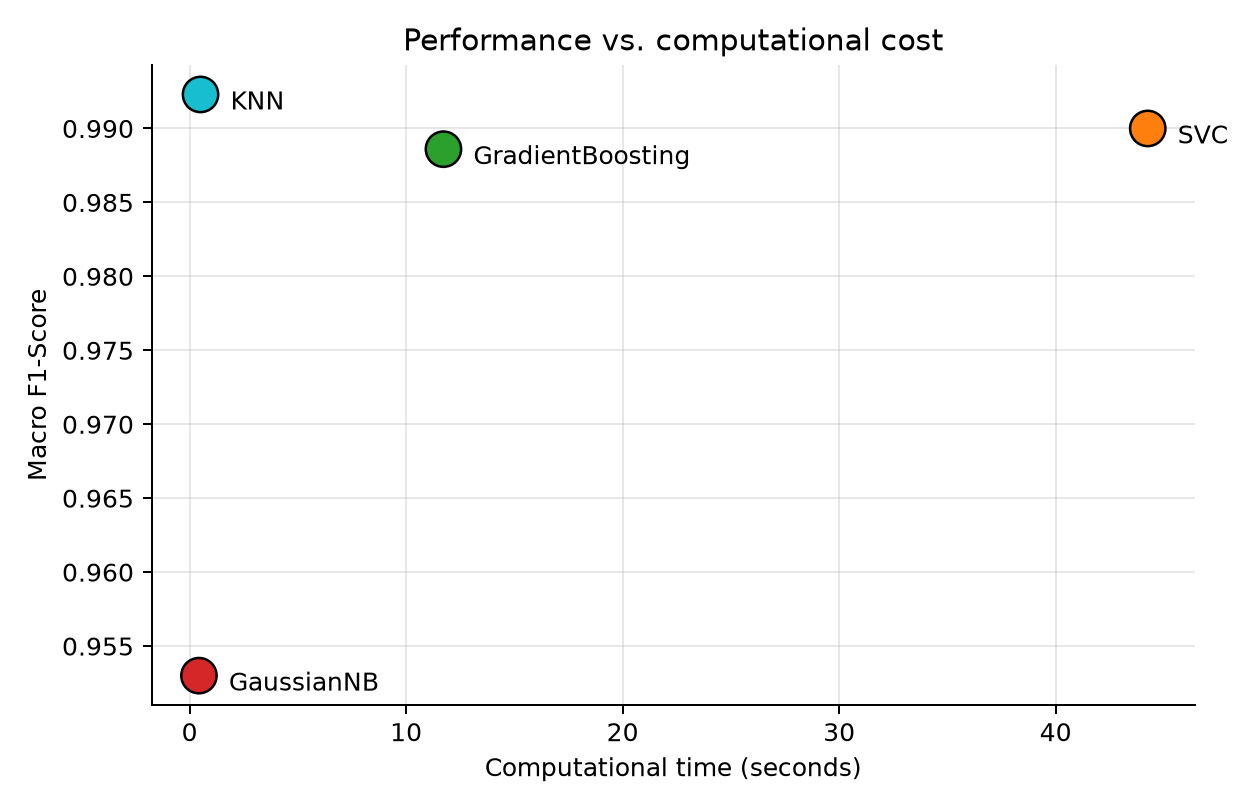
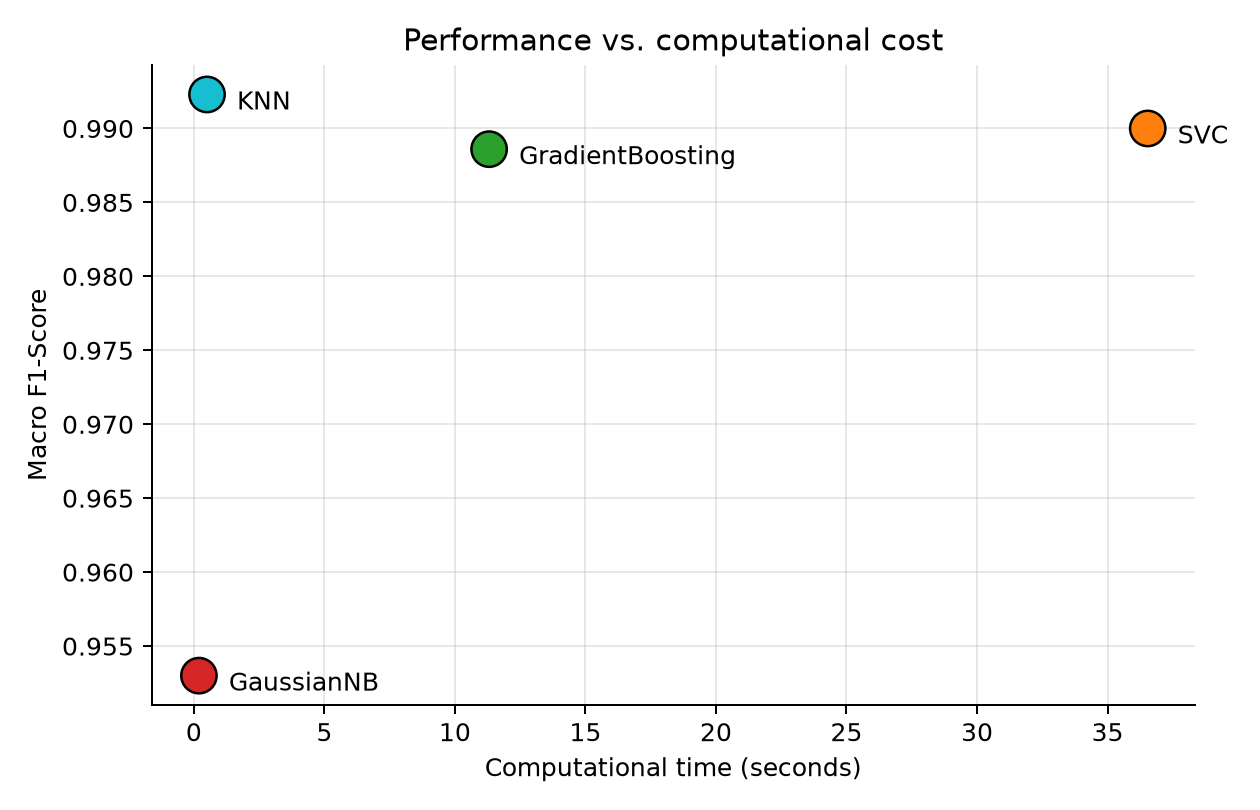
Light theme dashboard; show all 7 regenerated figures; no-cache on API/assets; quick-mode re-train verified

diff --git a/templates/index.html b/templates/index.html
@@ -10,7 +10,7 @@
 <body>
 
 <!-- Navbar -->
-<nav class="navbar navbar-dark sticky-top px-3">
+<nav class="navbar navbar-light bg-white sticky-top px-3">
   <span class="navbar-brand fw-bold">📊 Activity in English</span>
   <div class="d-flex align-items-center gap-2">
     <span id="status-pill" class="badge rounded-pill bg-secondary">Loading…</span>
@@ -26,10 +26,10 @@
     <p class="lead mb-2">The <strong>Occupancy Detection Dataset</strong>: predict whether a room is occupied from
       environmental sensor data using four models from different mathematical families.</p>
     <div class="d-flex flex-wrap gap-2 mt-2">
-      <span class="badge bg-light text-dark fs-6">🎯 17,895 instances</span>
-      <span class="badge bg-light text-dark fs-6">📡 5 sensor features</span>
-      <span class="badge bg-light text-dark fs-6">🧮 4 models · 3 families</span>
-      <span class="badge bg-light text-dark fs-6">🔁 5-fold stratified CV</span>
+      <span class="badge bg-white text-dark border fs-6">🎯 17,895 instances</span>
+      <span class="badge bg-white text-dark border fs-6">📡 5 sensor features</span>
+      <span class="badge bg-white text-dark border fs-6">🧮 4 models · 3 families</span>
+      <span class="badge bg-white text-dark border fs-6">🔁 5-fold stratified CV</span>
       <span id="badge-updated" class="badge bg-info text-dark fs-6">⏱ results: —</span>
     </div>
   </header>
@@ -72,7 +72,7 @@
       <div class="col-lg-6">
         <div class="card"><div class="card-body">
           <h5 class="card-title">Variables</h5>
-          <table class="table table-sm table-dark align-middle">
+          <table class="table table-sm align-middle">
             <thead><tr><th>Variable</th><th>Description</th><th>Role</th></tr></thead>
             <tbody>
               <tr><td>Temperature</td><td>Ambient temperature (°C)</td><td>Predictor</td></tr>
@@ -108,7 +108,7 @@
       <span class="badge text-bg-warning fs-6" id="winner-badge">🏆</span>
     </div>
     <div class="card"><div class="card-body table-responsive">
-      <table class="table table-dark table-hover align-middle mb-0" id="results-table">
+      <table class="table table-hover align-middle mb-0" id="results-table">
         <thead>
           <tr>
             <th>Model</th><th>F1-Score (macro)</th><th>Accuracy</th><th>Precision</th>
@@ -136,6 +136,34 @@
   <section class="mb-5">
     <h2 class="section-title">Confusion Matrices (out-of-fold predictions)</h2>
     <div class="row g-3" id="confusion-grid"></div>
+  </section>
+
+  <!-- REPORT FIGURES (PNG) -->
+  <section class="mb-5">
+    <h2 class="section-title">Report Figures</h2>
+    <p class="text-muted small">Static figures regenerated on every run (also refreshed after each re-training).</p>
+    <div class="row g-4">
+      <div class="col-md-6"><div class="card"><div class="card-body text-center">
+        <h6 class="chart-title">Macro F1-Score averages (5-fold CV)</h6>
+        <img id="img-f1bars" class="img-fluid rounded mb-1" src="" alt="Macro F1-Score by model">
+      </div></div></div>
+      <div class="col-md-6"><div class="card"><div class="card-body text-center">
+        <h6 class="chart-title">Computational time (GridSearchCV)</h6>
+        <img id="img-timebars" class="img-fluid rounded mb-1" src="" alt="Computational time">
+      </div></div></div>
+      <div class="col-md-6"><div class="card"><div class="card-body text-center">
+        <h6 class="chart-title">Performance vs. computational cost</h6>
+        <img id="img-f1time" class="img-fluid rounded mb-1" src="" alt="F1 vs time">
+      </div></div></div>
+      <div class="col-md-6"><div class="card"><div class="card-body text-center">
+        <h6 class="chart-title">SVM kernel analysis</h6>
+        <img id="img-kernels" class="img-fluid rounded mb-1" src="" alt="SVM kernels">
+      </div></div></div>
+      <div class="col-md-6"><div class="card"><div class="card-body text-center">
+        <h6 class="chart-title">KNN distance-metric evaluation</h6>
+        <img id="img-metrics" class="img-fluid rounded mb-1" src="" alt="KNN metrics">
+      </div></div></div>
+    </div>
   </section>
 
   <!-- DECISION BOUNDARIES -->
@@ -168,7 +196,7 @@
   <section class="mb-5">
     <h2 class="section-title">Reproducibility</h2>
     <div class="card"><div class="card-body">
-      <table class="table table-sm table-dark align-middle mb-0">
+      <table class="table table-sm align-middle mb-0">
         <thead><tr><th>File</th><th>Purpose</th><th>Command</th></tr></thead>
         <tbody>
           <tr><td><code>occupancy_classification.py</code></td><td>Console experiment</td><td><code>python occupancy_classification.py</code></td></tr>

diff --git a/static/app.css b/static/app.css
@@ -1,33 +1,34 @@
 :root {
-  --bg: #0b0f1a;
-  --card: #141a2a;
-  --card-2: #1a2236;
-  --border: #2a3550;
-  --accent: #38bdf8;
-  --text: #e6ecf5;
-  --muted: #93a1b8;
+  --bg: #f3f6fb;
+  --card: #ffffff;
+  --card-2: #f8fafc;
+  --border: #dbe3ee;
+  --accent: #2563eb;
+  --text: #1e293b;
+  --muted: #64748b;
 }
 
 body {
-  background: linear-gradient(180deg, #0b0f1a 0%, #0f1524 100%);
+  background: linear-gradient(180deg, #f6f9fd 0%, #eef2f8 100%);
   color: var(--text);
   font-family: "Segoe UI", system-ui, -apple-system, sans-serif;
   min-height: 100vh;
 }
 
 .navbar {
-  background: rgba(10, 14, 24, 0.92);
+  background: rgba(255, 255, 255, 0.92);
   backdrop-filter: blur(8px);
   border-bottom: 1px solid var(--border);
 }
+.navbar .navbar-brand { color: var(--text); }
 
 .hero {
-  background: radial-gradient(1200px 400px at 20% -10%, #1d3a5f 0%, transparent 60%),
-    linear-gradient(135deg, #16233f 0%, #10182b 100%);
+  background: radial-gradient(1200px 400px at 20% -10%, #dbeafe 0%, transparent 60%),
+    linear-gradient(135deg, #eef4ff 0%, #f8fafc 100%);
   border: 1px solid var(--border);
-  box-shadow: 0 12px 40px rgba(0, 0, 0, 0.45);
+  box-shadow: 0 12px 40px rgba(15, 23, 42, 0.08);
 }
-.hero .lead { color: #c6d3ea; }
+.hero .lead { color: #475569; }
 
 .section-title {
   color: var(--accent);
@@ -36,7 +37,7 @@ body {
   margin-bottom: 1rem;
 }
 
-.chart-title { color: #c9d6ec; margin-bottom: 0.6rem; }
+.chart-title { color: #334155; margin-bottom: 0.6rem; }
 
 .card, .phase-card {
   background: var(--card);
@@ -51,8 +52,8 @@ body {
 .plot-area { min-height: 320px; }
 
 .modal-card {
-  border: 2px solid var(--accent);
-  box-shadow: 0 0 0 3px rgba(56, 189, 248, 0.15), 0 12px 40px rgba(0,0,0,0.5);
+  border: 1px solid var(--border);
+  box-shadow: 0 4px 20px rgba(15, 23, 42, 0.08);
   position: relative;
 }
 .winner-ribbon {
@@ -70,11 +71,6 @@ body {
 
 .card-text small { color: var(--muted); }
 
-.table-dark {
-  --bs-table-bg: var(--card-2);
-  --bs-table-border-color: var(--border);
-}
-
 .badge-outline {
   background: transparent;
   border: 1px solid var(--vertical-border, var(--accent));
@@ -86,7 +82,7 @@ footer { border-top: 1px solid var(--border); }
 #status-pill.training { background-color: #f59e0b; color: #0b0f1a; animation: pulse 1.4s infinite; }
 #status-pill.done { background-color: #22c55e; color: #0b0f1a; }
 #status-pill.error { background-color: #ef4444; color: #fff; }
-#status-pill.idle { background-color: #64748b; }
+#status-pill.idle { background-color: #64748b; color: #fff; }
 
 @keyframes pulse {
   0%, 100% { opacity: 1; }
@@ -94,4 +90,4 @@ footer { border-top: 1px solid var(--border); }
 }
 
 .verdict-answer h5 { color: var(--accent); }
-.verdict-answer p { color: #c6d3ea; text-align: justify; }
+.verdict-answer p { color: #334155; text-align: justify; }

diff --git a/static/app.js b/static/app.js
@@ -10,7 +10,7 @@ const $ = (id) => document.getElementById(id);
 const PLOT_TEMPLATE = {
   paper_bgcolor: "rgba(0,0,0,0)",
   plot_bgcolor: "rgba(0,0,0,0)",
-  font: { color: "#c9d6ec", family: "Segoe UI, sans-serif" },
+  font: { color: "#1e293b", family: "Segoe UI, sans-serif" },
   margin: { t: 20, r: 16, b: 40, l: 44 },
 };
 
@@ -103,9 +103,9 @@ function renderModelCards() {
             <span>${m.name}</span>
             <svg width="20" height="20" viewBox="0 0 20 20"><circle cx="10" cy="10" r="8" fill="${COLORES[m.name] || "#888"}" /></svg>
           </h5>
-          <p class="display-6 fw-bold mb-1" style="color:${COLORES[m.name] || "#fff"}">${m.f1.toFixed(4)}</p>
+          <p class="display-6 fw-bold mb-1" style="color:${COLORES[m.name] || "#1e293b"}">${m.f1.toFixed(4)}</p>
           <p class="text-muted small mb-2">macro F1-Score · 5-fold CV</p>
-          <table class="table table-sm table-dark mb-2 small">
+          <table class="table table-sm table-borderless mb-2 small">
             <tr><td>Accuracy</td><td class="text-end">${m.accuracy.toFixed(4)}</td></tr>
             <tr><td>Precision</td><td class="text-end">${m.precision.toFixed(4)}</td></tr>
             <tr><td>Recall</td><td class="text-end">${m.recall.toFixed(4)}</td></tr>
@@ -232,6 +232,11 @@ function renderConfusiones() {
 
 function renderImagenes() {
   const fig = DATA.figures || {};
+  $("img-f1bars").src = cacheBus(fig.f1_bars || "");
+  $("img-timebars").src = cacheBus(fig.time_bars || "");
+  $("img-f1time").src = cacheBus(fig.f1_time || "");
+  $("img-kernels").src = cacheBus(fig.kernels || "");
+  $("img-metrics").src = cacheBus(fig.metrics || "");
   $("img-boundaries").src = cacheBus(fig.boundaries || "");
   $("img-correlation").src = cacheBus(fig.correlation || "");
   const v = DATA.pca_variance || [];

diff --git a/app.py b/app.py
@@ -89,7 +89,9 @@ def index():
 
 @app.route("/api/results")
 def api_results():
-    return jsonify(load_data())
+    resp = jsonify(load_data())
+    resp.headers["Cache-Control"] = "no-cache, must-revalidate"
+    return resp
 
 
 @app.post("/api/train")
@@ -109,7 +111,9 @@ def api_status():
 
 @app.route("/assets/<path:filename>")
 def assets(filename):
-    return send_from_directory(ASSETS_DIR, filename)
+    resp = send_from_directory(ASSETS_DIR, filename)
+    resp.headers["Cache-Control"] = "no-cache, must-revalidate"
+    return resp
 
 
 if __name__ == "__main__":
